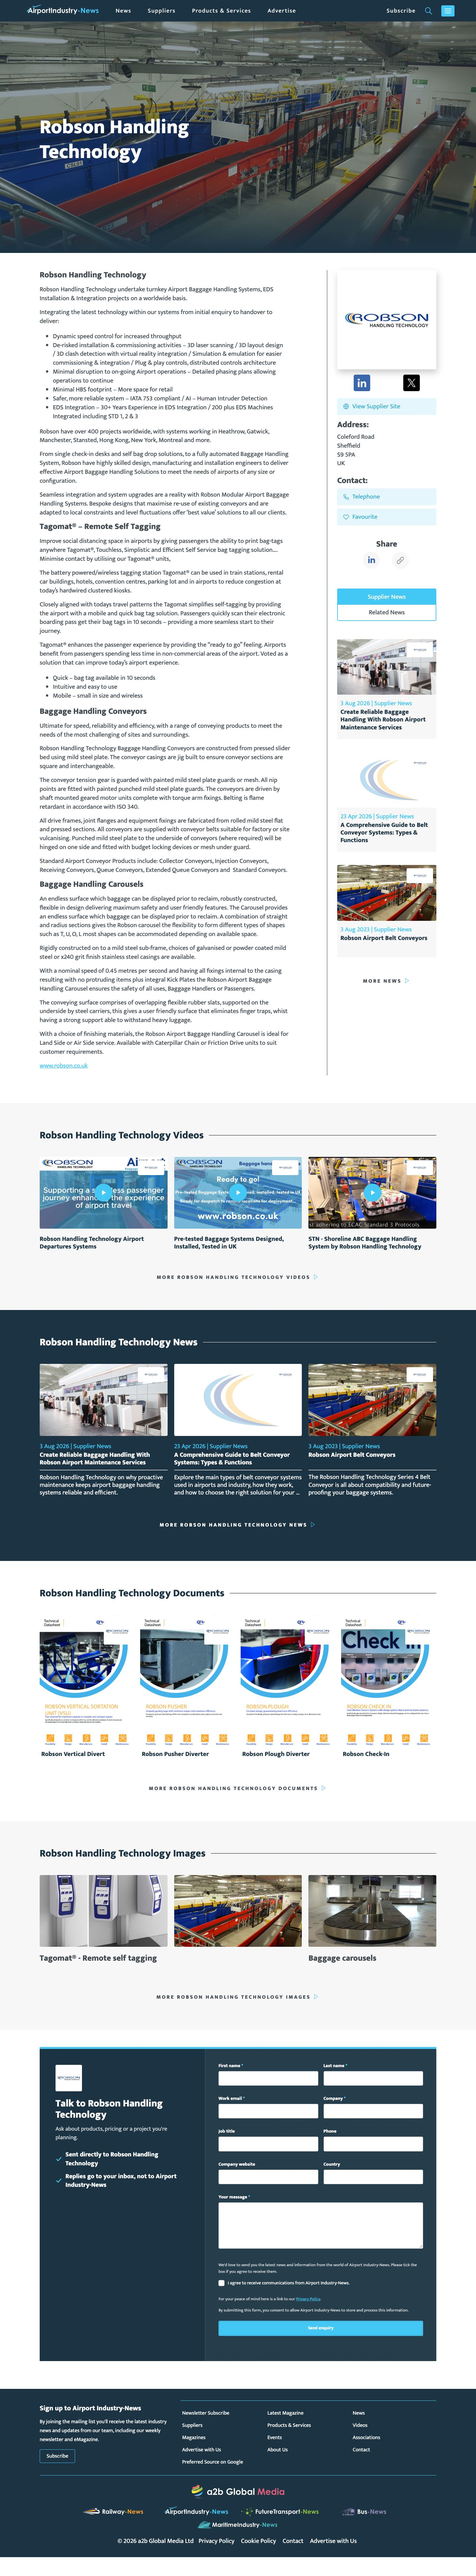
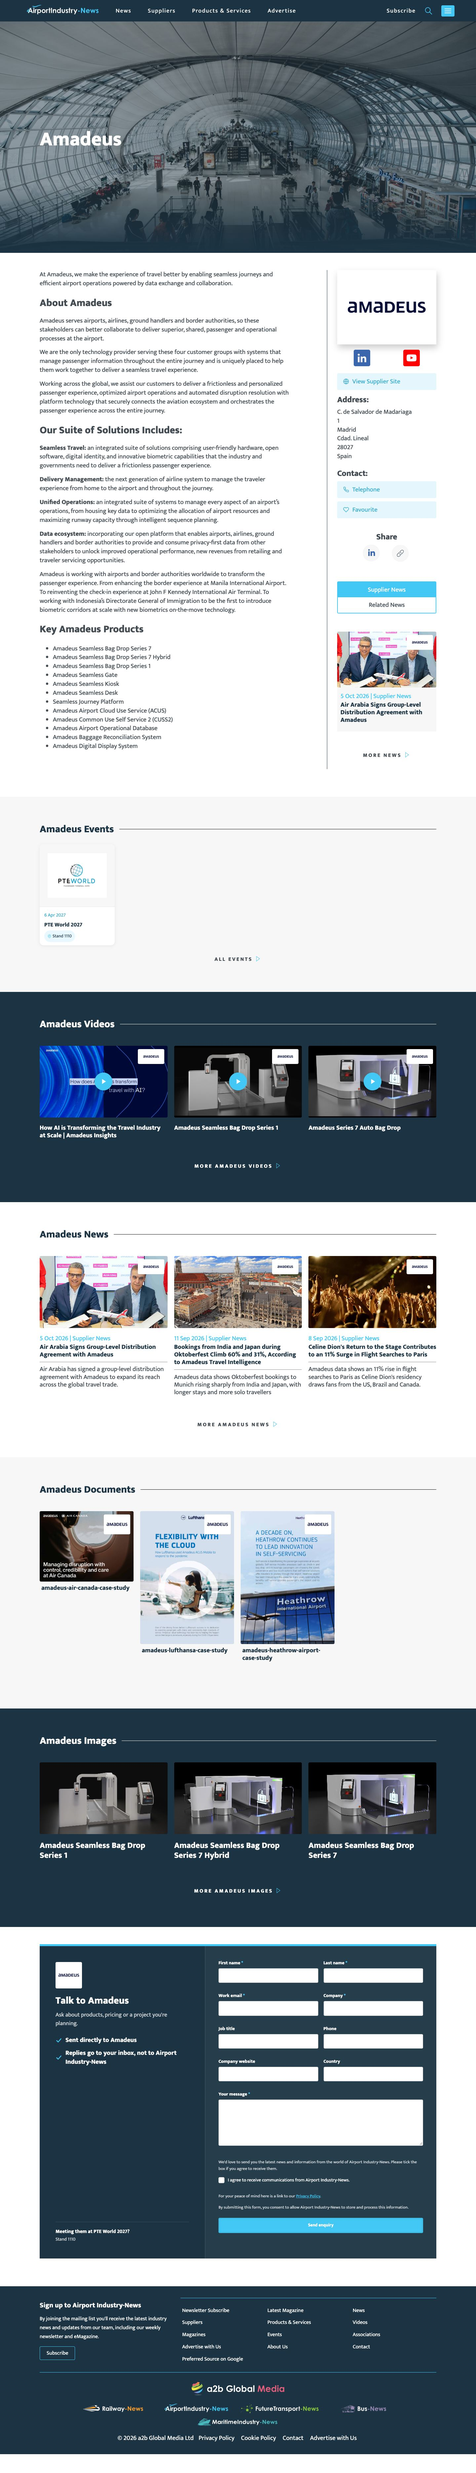
Visual guides: new example profiles with event steps
- RN: Goldschmidt profile; adds 'Events you are attending' and 'Where to
  meet you' steps, drops the documents step (no documents on this profile)
- AIN: Amadeus profile with the same two event steps and a documents step

diff --git a/AIN-visual-guide.html b/AIN-visual-guide.html
@@ -278,13 +278,14 @@ const A = 'visual-guide-assets/';
 const CHAPTERS = [
     {
         name: 'Company Profile',
-        url: 'airportindustry-news.com/suppliers/robson-baggage-handling-technology',
-        img: 'ain-profile.jpg', h: 7791,
-        alt: 'Aviation Industry-News company profile page for Robson Handling Technology',
+        url: 'airportindustry-news.com/suppliers/amadeus-digital-biometric-and-operational-airport-solutions',
+        img: 'ain-profile.jpg', h: 7482,
+        alt: 'Aviation Industry-News company profile page for Amadeus',
         ref: `<dl>
             <dt>Hero image</dt><dd>A showcase image behind your company name.</dd>
             <dt>Profile text</dt><dd>300+ words, written with key phrases that help search engines send traffic to your page.</dd>
-            <dt>Logo, links and contact details</dt><dd>Your logo, social media links, website link, address and telephone number.</dd>
+            <dt>Logo, links and contact details</dt><dd>Your logo, website and social media links, address and telephone number.</dd>
+            <dt>Events</dt><dd>The events you are attending, with dates and stand numbers. Your next event also shows beside your enquiry form.</dd>
             <dt>News, videos, documents and images</dt><dd>Your own news feed, video gallery, downloadable PDFs and image gallery. Add new content at any time.</dd>
             <dt>Enquiry form</dt><dd>Readers can contact you directly from your profile.</dd>
         </dl>`,
@@ -294,25 +295,30 @@ const CHAPTERS = [
             { title: 'Hero image', box: [0, 62, 1440, 700], zoom: 1,
               text: 'A large showcase image runs behind your company name at the top of the page. Choose an image that shows your products or people at their best.',
               spec: ['Landscape image', 'High resolution'] },
-            { title: 'Logo, links and contact details', box: [1005, 805, 330, 880], zoom: 2,
-              text: 'Your logo sits beside your profile, with your social media links, a link to your website, your address and a telephone button. Readers can also save you as a favourite.' },
-            { title: 'Profile text', box: [105, 805, 880, 1100], zoom: 1.5,
-              text: '300+ words about your company, enriched with key phrases so search engines send relevant traffic to your profile. You can add a list of your key products too.',
+            { title: 'Logo, links and contact details', box: [1005, 805, 330, 760], zoom: 2,
+              text: 'Your logo sits beside your profile, with links to your website and social media, your address and a telephone button. Readers can also save you as a favourite.' },
+            { title: 'Profile text', box: [105, 800, 880, 1100], zoom: 1.5,
+              text: '300+ words about your company, enriched with key phrases so search engines send relevant traffic to your profile. You can add your products and services too.',
               spec: ['300+ words'] },
-            { title: 'Latest news, right beside your profile', box: [1005, 1750, 330, 900], zoom: 1.6,
+            { title: 'Latest news, right beside your profile', box: [1005, 1750, 330, 560], zoom: 1.8,
               text: 'Your most recent news items show in the sidebar, with a link to all your supplier news.' },
-            { title: 'Video gallery', box: [100, 3370, 1240, 560], zoom: 1.3,
+            { title: 'Events you are attending', box: [120, 2553, 227, 307], zoom: 2.6,
+              text: 'Add the events you are attending, with the date and your stand number, so readers know where to meet you in person.',
+              spec: ['Event dates', 'Stand numbers'] },
+            { title: 'Video gallery', box: [105, 3075, 1230, 385], zoom: 1.3,
               text: 'Host your videos on your profile and add new ones at any time. Videos can also feature on our homepage, in our newsletter and on our social channels.' },
-            { title: 'News feed', box: [100, 3995, 1240, 690], zoom: 1.2,
+            { title: 'News feed', box: [105, 3710, 1230, 525], zoom: 1.2,
               text: 'Every press release you send us appears in your own news feed. Your news also features on the homepage, in our newsletter and across our social channels.' },
-            { title: 'Documents and white papers', box: [100, 4755, 1240, 720], zoom: 1.2,
-              text: 'Host brochures, white papers and other PDFs on your profile. Each document is optimised for search engines, so buyers can find it.',
+            { title: 'Documents and case studies', box: [105, 4485, 1230, 550], zoom: 1.2,
+              text: 'Host brochures, case studies and white papers as PDFs on your profile. Each document is optimised for search engines, so buyers can find it.',
               spec: ['PDF'] },
-            { title: 'Image gallery', box: [120, 5671, 1200, 265], zoom: 1.3,
+            { title: 'Image gallery', box: [120, 5332, 1200, 295], zoom: 1.3,
               text: 'Add as many images as you like. Captions help search engines find your images.',
               spec: ['Unlimited images'] },
-            { title: 'Enquiry form', box: [120, 6191, 1200, 950], zoom: 1.1,
-              text: 'Readers can contact you directly with the enquiry form at the bottom of your profile. Enquiries go straight to your inbox.' }
+            { title: 'Enquiry form', box: [120, 5888, 1200, 945], zoom: 1.1,
+              text: 'Readers can contact you directly with the enquiry form at the bottom of your profile. Enquiries go straight to your inbox.' },
+            { title: 'Where to meet you', box: [160, 6740, 420, 75], zoom: 2.6,
+              text: 'Your next event shows beside the enquiry form too, so readers who want to talk to you can also find you on your stand.' }
         ]
     },
     {

diff --git a/RN-visual-guide.html b/RN-visual-guide.html
@@ -278,13 +278,14 @@ const A = 'visual-guide-assets/';
 const CHAPTERS = [
     {
         name: 'Company Profile',
-        url: 'railway-news.com/suppliers/icomera-connectivity-solutions-for-rail',
-        img: 'rn-profile.jpg', h: 7594,
-        alt: 'Railway-News company profile page for Icomera',
+        url: 'railway-news.com/suppliers/goldschmidt',
+        img: 'rn-profile.jpg', h: 7350,
+        alt: 'Railway-News company profile page for Goldschmidt',
         ref: `<dl>
             <dt>Hero image</dt><dd>A showcase image behind your company name.</dd>
             <dt>Profile text</dt><dd>300+ words, written with key phrases that help search engines send traffic to your page.</dd>
-            <dt>Logo, links and contact details</dt><dd>Your logo, social media links, website link, addresses and telephone number.</dd>
+            <dt>Logo, links and contact details</dt><dd>Your logo, website and social media links, address and telephone number.</dd>
+            <dt>Events</dt><dd>The events you are attending, with dates and stand numbers. Your next event also shows beside your enquiry form.</dd>
             <dt>News, videos, documents and images</dt><dd>Your own news feed, video gallery, downloadable PDFs and image gallery. Add new content at any time.</dd>
             <dt>Enquiry form</dt><dd>Readers can contact you directly from your profile.</dd>
         </dl>`,
@@ -294,25 +295,27 @@ const CHAPTERS = [
             { title: 'Hero image', box: [0, 62, 1440, 700], zoom: 1,
               text: 'A large showcase image runs behind your company name at the top of the page. Choose an image that shows your products or people at their best.',
               spec: ['Landscape image', 'High resolution'] },
-            { title: 'Logo, links and contact details', box: [1005, 805, 330, 1150], zoom: 2,
-              text: 'Your logo sits beside your profile, with your social media links, a link to your website, your addresses and a telephone button. Readers can also save you as a favourite.' },
-            { title: 'Profile text', box: [105, 805, 870, 1060], zoom: 1.5,
-              text: '300+ words about your company, enriched with key phrases so search engines send relevant traffic to your profile. You can add a list of your key products too.',
+            { title: 'Logo, links and contact details', box: [1005, 805, 330, 700], zoom: 2,
+              text: 'Your logo sits beside your profile, with links to your website and social media, your address and a telephone button. Readers can also save you as a favourite.' },
+            { title: 'Profile text', box: [105, 805, 880, 1080], zoom: 1.5,
+              text: '300+ words about your company, enriched with key phrases so search engines send relevant traffic to your profile. You can add your products and services too.',
               spec: ['300+ words'] },
-            { title: 'Latest news, right beside your profile', box: [1005, 2115, 330, 480], zoom: 2,
-              text: 'Your most recent news item shows in the sidebar, with a link to all your supplier news.' },
-            { title: 'Video gallery', box: [100, 3010, 1240, 490], zoom: 1.3,
+            { title: 'Latest news, right beside your profile', box: [1005, 1680, 330, 980], zoom: 1.6,
+              text: 'Your most recent news items show in the sidebar, with a link to all your supplier news.' },
+            { title: 'Events you are attending', box: [120, 3255, 714, 305], zoom: 1.8,
+              text: 'Add the events you are attending, with the date and your stand number, so readers know where to meet you in person.',
+              spec: ['Event dates', 'Stand numbers'] },
+            { title: 'Video gallery', box: [100, 3770, 1240, 410], zoom: 1.3,
               text: 'Host your videos on your profile and add new ones at any time. Videos can also feature on our homepage, in our newsletter and on our social channels.' },
-            { title: 'News feed', box: [100, 3640, 1240, 670], zoom: 1.2,
+            { title: 'News feed', box: [100, 4395, 1240, 530], zoom: 1.2,
               text: 'Every press release you send us appears in your own news feed. Your news also features on the homepage, in our newsletter and across our social channels.' },
-            { title: 'Documents and white papers', box: [100, 4440, 1240, 600], zoom: 1.2,
-              text: 'Host brochures, white papers and other PDFs on your profile. Each document is optimised for search engines, so buyers can find it.',
-              spec: ['PDF'] },
-            { title: 'Image gallery', box: [120, 5334, 1200, 320], zoom: 1.3,
-              text: 'Add as many images as you like. Captions help search engines find your images.',
-              spec: ['Unlimited images'] },
-            { title: 'Enquiry form', box: [110, 5935, 1220, 1060], zoom: 1.1,
-              text: 'Readers can contact you directly with the enquiry form at the bottom of your profile. Enquiries go straight to your inbox.' }
+            { title: 'Image gallery', box: [120, 5260, 1200, 217], zoom: 1.3,
+              text: 'Add as many images as you like. Captions help search engines find your images. You can also host brochures and white papers as PDFs.',
+              spec: ['Unlimited images', 'PDF documents'] },
+            { title: 'Enquiry form', box: [120, 5756, 1200, 945], zoom: 1.1,
+              text: 'Readers can contact you directly with the enquiry form at the bottom of your profile. Enquiries go straight to your inbox.' },
+            { title: 'Where to meet you', box: [160, 6585, 420, 75], zoom: 2.6,
+              text: 'Your next event shows beside the enquiry form too, so readers who want to talk to you can also find you on your stand.' }
         ]
     },
     {
